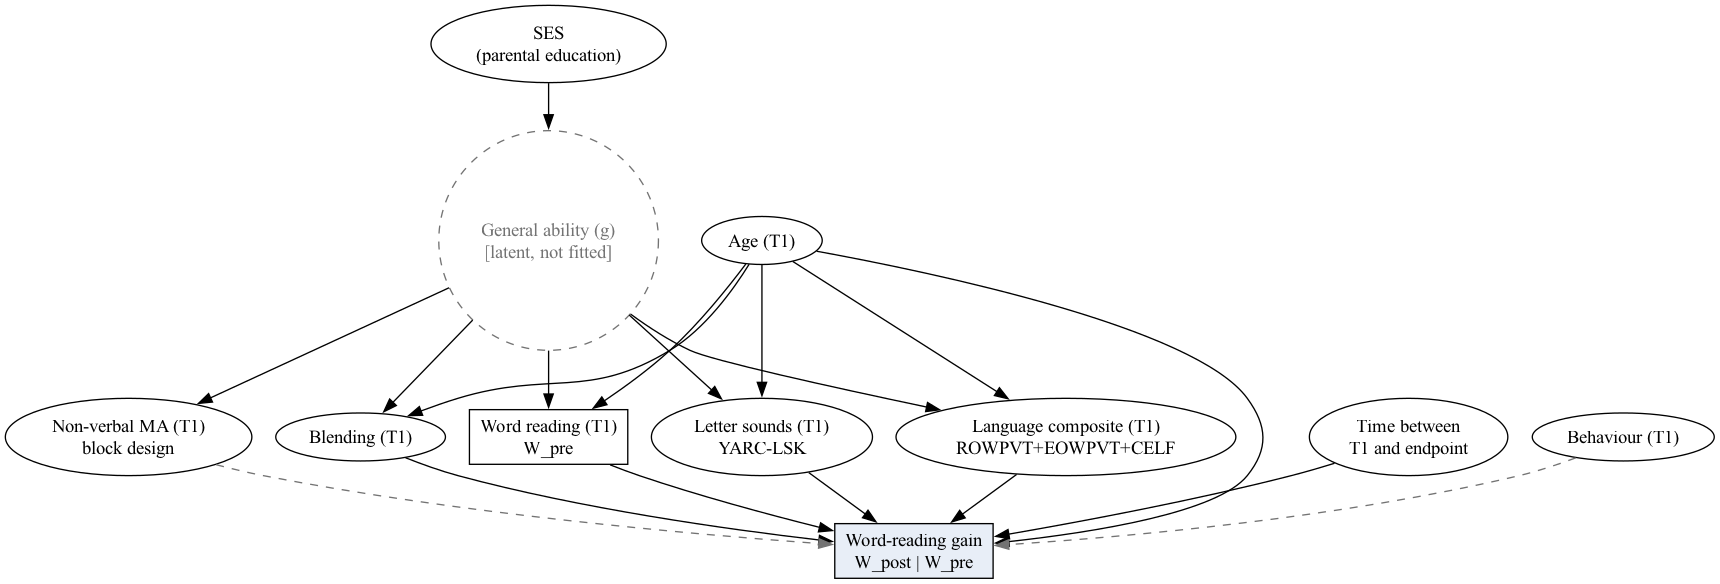
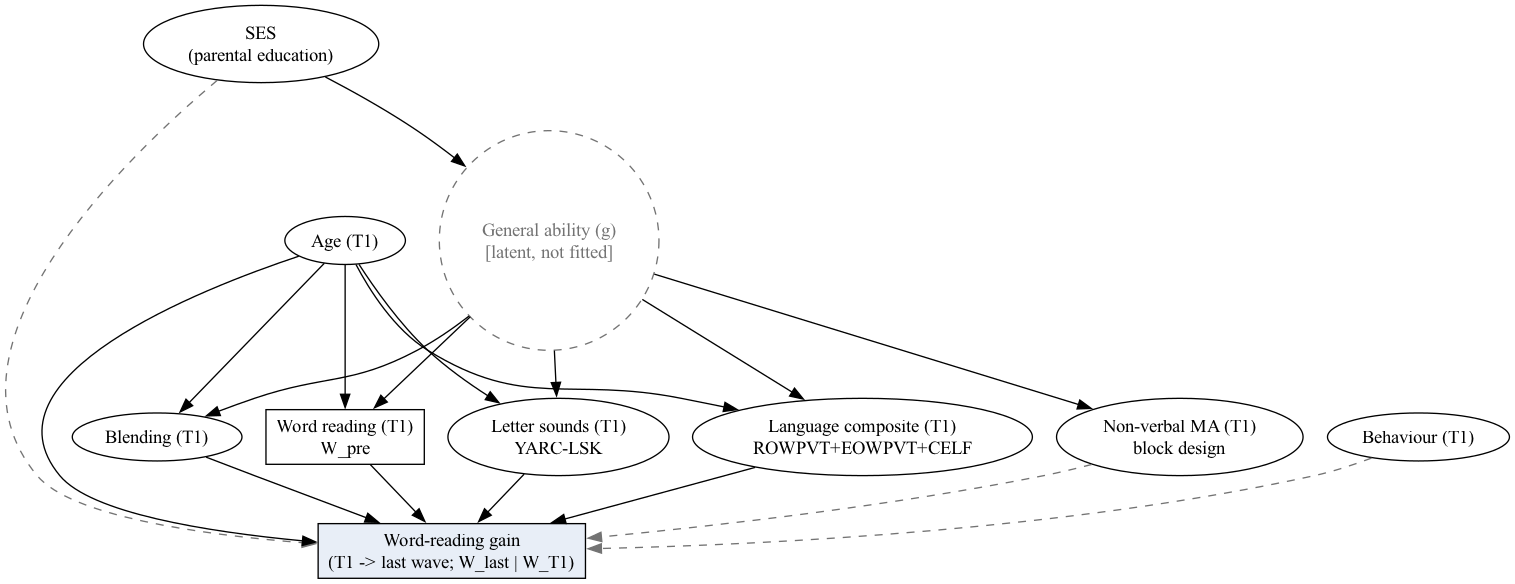
refactor(stats): LRP65 DAG — lock between-child design per review
Drop the time-between-waves node (follow-up span is uniform; all children have
four waves). Add a dashed SES -> gain edge so SES reads as a tested covariate,
consistent with non-verbal MA and behaviour (SES is adjudicated in a separate
complete-case sensitivity fit). Relabel the outcome to the between-child
total-gain framing (T1 -> last wave; W_last | W_T1).

diff --git a/src/language_reading_predictors/statistical_models/lrp65.py b/src/language_reading_predictors/statistical_models/lrp65.py
@@ -108,11 +108,12 @@ _EDGE_LIST: list[tuple[str, str]] = [
     ("blend", "wgain"),
     # Baseline coupling / regression to the mean (conditioned on).
     ("wpre", "wgain"),
-    # Span between T1 and the gain endpoint.
-    ("interval", "wgain"),
-    # Edges under test - the model decides whether these are non-zero.
+    # Edges under test - the model decides whether these are non-zero once the
+    # language + letter-sound signal is in. (Follow-up span is uniform - all
+    # children have four waves - so time-between-waves is not a node.)
     ("nvma", "wgain"),
     ("behav", "wgain"),
+    ("ses", "wgain"),
 ]
 
 _NODE_PROPS: dict[str, dict[str, str]] = {
@@ -125,7 +126,6 @@ _NODE_PROPS: dict[str, dict[str, str]] = {
     },
     "ses": {"label": "SES\\n(parental education)"},
     "age": {"label": "Age (T1)"},
-    "interval": {"label": "Time between\\nT1 and endpoint"},
     "ls": {"label": "Letter sounds (T1)\\nYARC-LSK"},
     "lang": {"label": "Language composite (T1)\\nROWPVT+EOWPVT+CELF"},
     "blend": {"label": "Blending (T1)"},
@@ -133,17 +133,21 @@ _NODE_PROPS: dict[str, dict[str, str]] = {
     "behav": {"label": "Behaviour (T1)"},
     "wpre": {"label": "Word reading (T1)\\nW_pre", "shape": "box"},
     "wgain": {
-        "label": "Word-reading gain\\nW_post | W_pre",
+        "label": "Word-reading gain\\n(T1 -> last wave; W_last | W_T1)",
         "shape": "box",
         "style": "filled",
         "fillcolor": "#e8eef7",
     },
 }
 
-# Edges whose presence is the hypothesis under test (drawn dashed).
+# Edges whose presence is the hypothesis under test (drawn dashed): the
+# covariates the descriptives expect to carry no independent signal once
+# language + letter sounds are adjusted for. SES is tested in a separate
+# complete-case sensitivity fit.
 _EDGE_PROPS: dict[tuple[str, str], dict[str, str]] = {
     ("nvma", "wgain"): {"style": "dashed", "color": "grey45"},
     ("behav", "wgain"): {"style": "dashed", "color": "grey45"},
+    ("ses", "wgain"): {"style": "dashed", "color": "grey45"},
 }
 
 